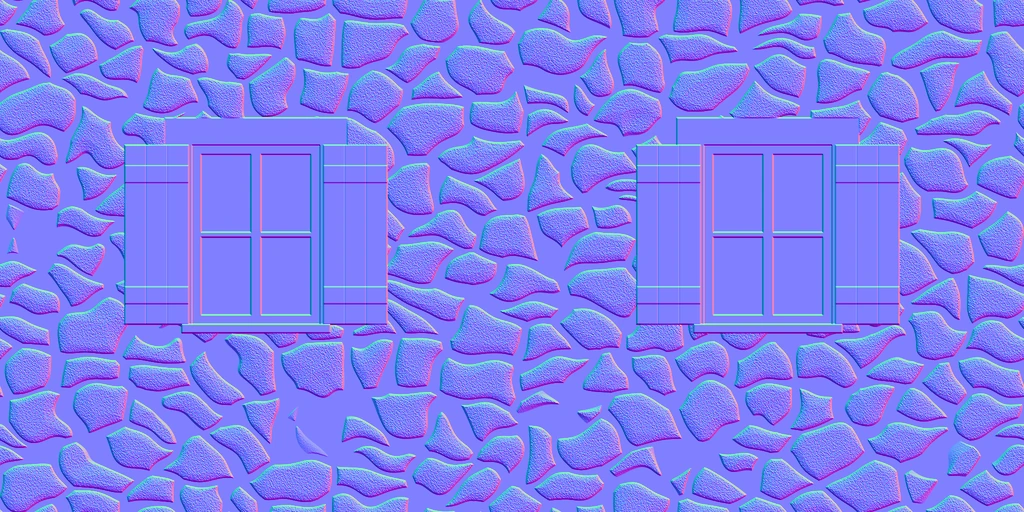
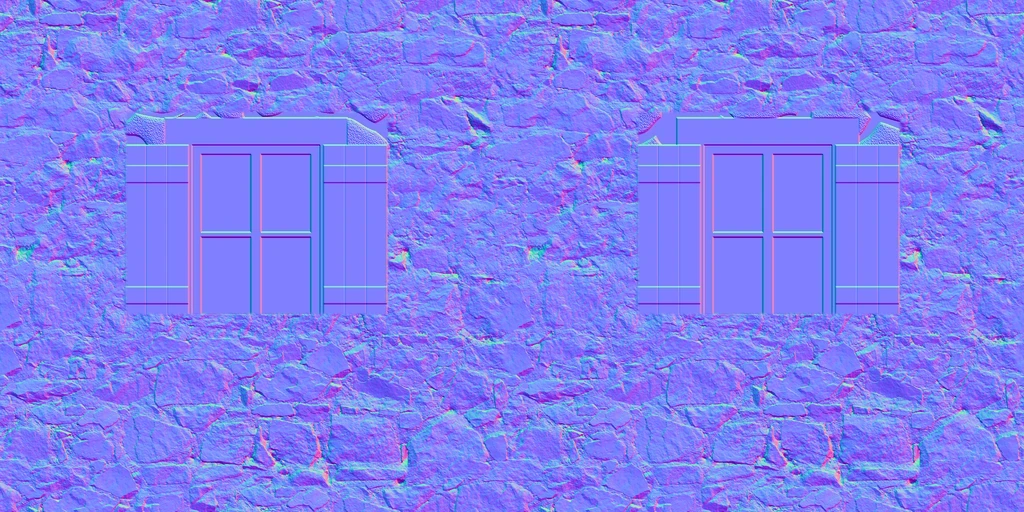
Steinfassaden auf echten Mauer-Scans, Fenster und Läden bleiben
Claude-Session: https://claude.ai/code/session_01FvU1BRFY69zb94Pu5yz5Z1

diff --git a/tools/assets-cc0/facades.py b/tools/assets-cc0/facades.py
@@ -1,0 +1,125 @@
+#!/usr/bin/env python3
+"""
+Rebuilds facade textures on real wall scans: the windows, shutters, doors and sills of the old drawn
+facade (app/src/main/assets/tex/facade_*.webp) stay, the wall around them becomes a CC0 photo texture.
+
+The elements are found in the old height map (_m blue): they are flat drawn rectangles, the drawn wall
+is not. Flat connected regions of a sensible size and shape become boxes; inside the boxes the old
+albedo, normal and _m are kept, outside the real wall is tiled at its real size.
+
+Usage: facades.py MAPPING.json SRC_DIR TEX_DIR [PREVIEW.jpg]
+MAPPING: {"facade_stone_village": {"src": "facade_stone_village", "wall_m": 3.0}, ...}
+"""
+import json
+import sys
+from pathlib import Path
+
+import numpy as np
+from PIL import Image, ImageFilter
+from scipy import ndimage
+
+from convert import find_maps
+
+# Facade repeat sizes in metres (Materials.kt SIZE).
+SIZE = {
+    "facade_barn": (6.0, 3.0), "facade_basque": (6.0, 3.0), "facade_chalet": (6.0, 3.0),
+    "facade_church": (4.0, 8.0), "facade_eixample": (6.0, 3.3), "facade_haussmann": (6.0, 3.4),
+    "facade_modern": (6.0, 3.0), "facade_plaster_cream": (6.0, 3.0), "facade_plaster_ochre": (6.0, 3.0),
+    "facade_pyrenean": (6.0, 3.0), "facade_shop": (6.0, 3.5), "facade_stone_village": (6.0, 3.0),
+}
+
+
+def element_mask(height: Image.Image, size, fill=0.75, join=21) -> np.ndarray:
+    """Boolean mask (h, w) of the drawn elements, as filled boxes."""
+    h = height.resize(size, Image.NEAREST)
+    span = np.asarray(h.filter(ImageFilter.MaxFilter(7))).astype(int) - np.asarray(h.filter(ImageFilter.MinFilter(7))).astype(int)
+    flat = span <= 4
+    labels, n = ndimage.label(flat)
+    area = size[0] * size[1]
+    boxes = np.zeros((size[1], size[0]), bool)
+    for i, sl in enumerate(ndimage.find_objects(labels), start=1):
+        comp = labels[sl] == i
+        a = comp.sum()
+        bh, bw = comp.shape
+        if a < area * 0.002 or bh * bw > area * 0.3 or a / (bh * bw) < fill:
+            continue
+        boxes[sl] = True
+    # A window, its frame, shutters, sill and balcony are separate drawn pieces: merge neighbours into
+    # groups, and keep each group's bounding rectangle when it is big enough to be a real element (small
+    # flat patches of the drawn stone wall are not).
+    groups, _ = ndimage.label(ndimage.binary_dilation(boxes, structure=np.ones((join, join))))
+    out = np.zeros_like(boxes)
+    for i, sl in enumerate(ndimage.find_objects(groups), start=1):
+        inner = boxes[sl] & (groups[sl] == i)
+        if not inner.any():
+            continue
+        ys, xs = np.nonzero(inner)
+        y0, y1, x0, x1 = sl[0].start + ys.min(), sl[0].start + ys.max(), sl[1].start + xs.min(), sl[1].start + xs.max()
+        if (y1 - y0) * (x1 - x0) < area * 0.035:
+            continue
+        out[max(0, y0 - 3):y1 + 4, max(0, x0 - 3):x1 + 4] = True
+    return out
+
+
+def tiled(path: Path, size, reps, mode):
+    im = Image.open(path).convert(mode)
+    tw, th = round(size[0] / reps[0]), round(size[1] / reps[1])
+    im = im.resize((max(1, tw), max(1, th)), Image.LANCZOS)
+    out = Image.new(mode, size)
+    for x in range(0, size[0], im.width):
+        for y in range(0, size[1], im.height):
+            out.paste(im, (x, y))
+    return out
+
+
+def blend(old: Image.Image, new: Image.Image, mask: np.ndarray) -> Image.Image:
+    soft = Image.fromarray((mask * 255).astype(np.uint8)).resize(old.size, Image.BILINEAR).filter(ImageFilter.GaussianBlur(1.2))
+    return Image.composite(old, new, soft)
+
+
+def build(name, opts, src_root: Path, tex: Path):
+    maps = find_maps(src_root / opts["src"])
+    a_old = Image.open(tex / f"{name}.webp").convert("RGB")
+    n_old = Image.open(tex / f"{name}_n.webp").convert("RGB")
+    m_old = Image.open(tex / f"{name}_m.webp").convert("RGB")
+    size = a_old.size
+    if "boxes" in opts:
+        # Boxes given by hand (x0, y0, x1, y1 on a 1024 x 512 facade) where the detection picks up wall too.
+        mask = np.zeros((size[1], size[0]), bool)
+        sx, sy = size[0] / 1024, size[1] / 512
+        for x0, y0, x1, y1 in opts["boxes"]:
+            mask[round(y0 * sy):round(y1 * sy), round(x0 * sx):round(x1 * sx)] = True
+    else:
+        mask = element_mask(m_old.split()[2], size, opts.get("fill", 0.75), opts.get("join", 21))
+    wm, hm = SIZE[name]
+    wall = opts.get("wall_m", 3.0)
+    reps = (wm / wall, hm / wall)
+    a = blend(a_old, tiled(maps["albedo"], size, reps, "RGB"), mask)
+    n_new = tiled(maps["normal_gl"], n_old.size, reps, "RGB") if "normal_gl" in maps else Image.new("RGB", n_old.size, (128, 128, 255))
+    n = blend(n_old, n_new, mask)
+    ms = m_old.size
+    ao = tiled(maps["ao"], ms, reps, "L") if "ao" in maps else Image.new("L", ms, 255)
+    rough = tiled(maps["rough"], ms, reps, "L") if "rough" in maps else Image.new("L", ms, 220)
+    hgt = tiled(maps["height"], ms, reps, "L") if "height" in maps else Image.new("L", ms, 128)
+    m = blend(m_old, Image.merge("RGB", (ao, rough, hgt)), mask)
+    a.save(tex / f"{name}.webp", quality=88, method=6)
+    n.save(tex / f"{name}_n.webp", quality=92, method=6)
+    m.save(tex / f"{name}_m.webp", quality=92, method=6)
+    print(f"{name}: elements {mask.mean() * 100:.0f} % of the facade")
+    return a
+
+
+def main():
+    mapping = json.loads(Path(sys.argv[1]).read_text())
+    src_root, tex = Path(sys.argv[2]), Path(sys.argv[3])
+    shots = [build(n, o, src_root, tex) for n, o in mapping.items()]
+    if len(sys.argv) > 4:
+        cols = 2
+        sheet = Image.new("RGB", (512 * cols, 256 * ((len(shots) + cols - 1) // cols)))
+        for i, s in enumerate(shots):
+            sheet.paste(s.resize((512, 256)), ((i % cols) * 512, (i // cols) * 256))
+        sheet.save(sys.argv[4], quality=85)
+
+
+if __name__ == "__main__":
+    main()
